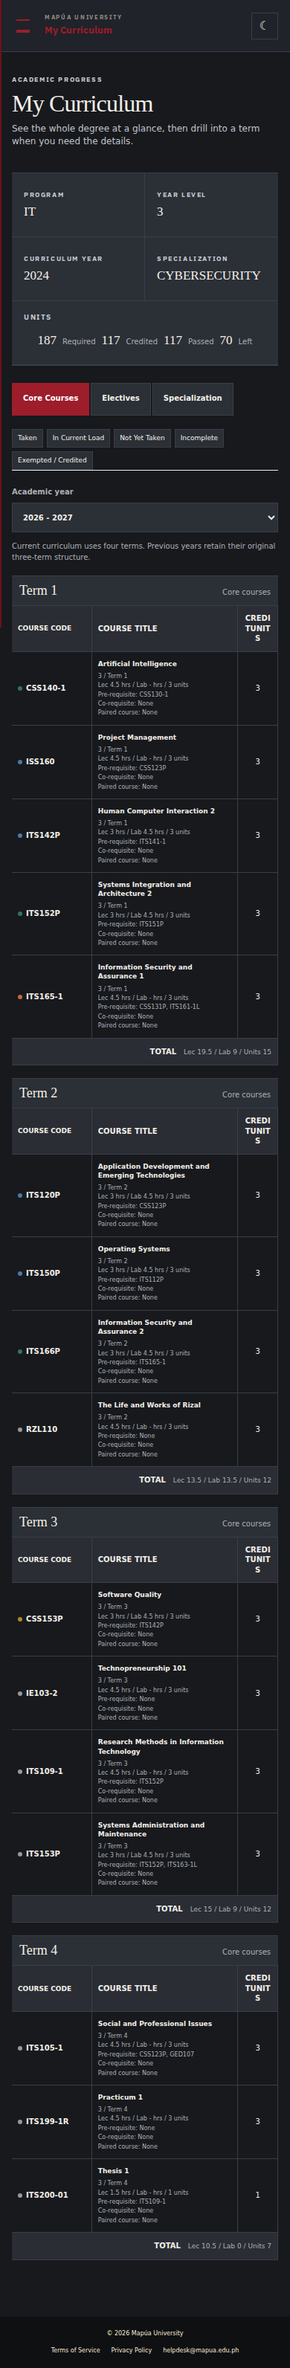
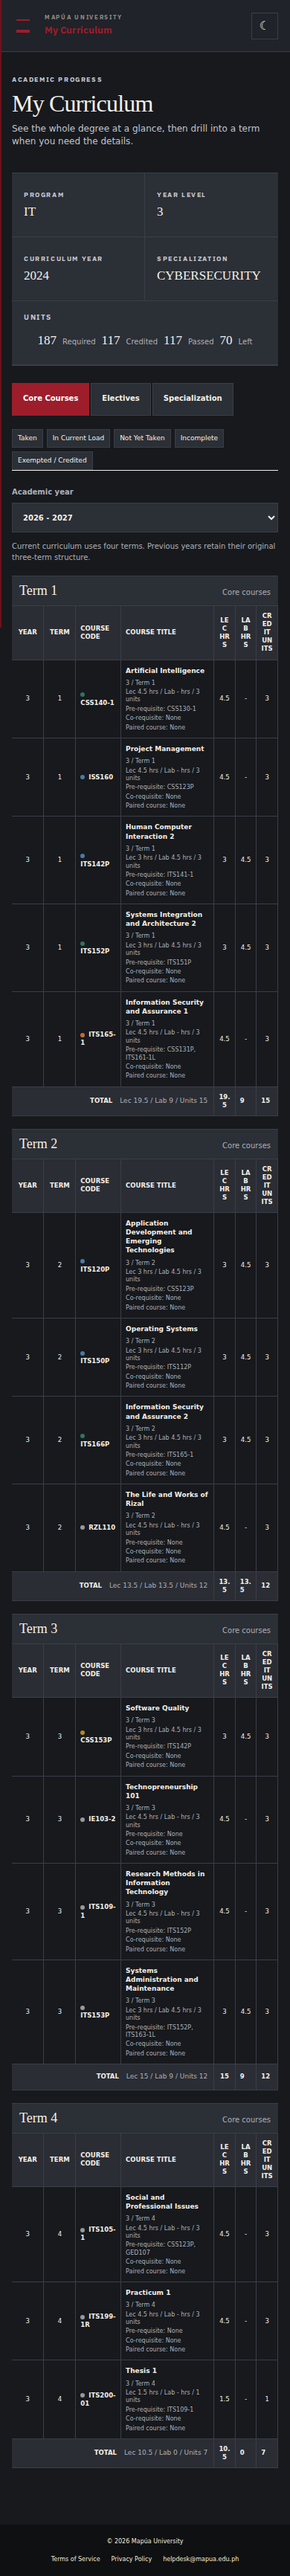
Finish responsive table layout fixes

diff --git a/mobile-fixes.css b/mobile-fixes.css
@@ -455,6 +455,46 @@ html[data-theme="dark"] .content .schedule-table thead th {
   background: color-mix(in srgb, var(--rule) 55%, transparent) !important;
 }
 
+@media (min-width: 801px) and (max-width: 1100px) {
+  .content .curriculum-table-wrap {
+    overflow-x: hidden !important;
+  }
+
+  .content .curriculum-table {
+    width: 100% !important;
+    min-width: 0 !important;
+    max-width: 100% !important;
+    table-layout: fixed !important;
+  }
+
+  .content .curriculum-table th,
+  .content .curriculum-table td {
+    padding: 8px 5px !important;
+    font-size: 9px !important;
+    overflow-wrap: anywhere !important;
+  }
+
+  .content .curriculum-table th:nth-child(n + 8),
+  .content .curriculum-table td:nth-child(n + 8) {
+    display: none !important;
+  }
+
+  .content .curriculum-table th:nth-child(1),
+  .content .curriculum-table td:nth-child(1) { width: 12% !important; }
+  .content .curriculum-table th:nth-child(2),
+  .content .curriculum-table td:nth-child(2) { width: 12% !important; }
+  .content .curriculum-table th:nth-child(3),
+  .content .curriculum-table td:nth-child(3) { width: 17% !important; }
+  .content .curriculum-table th:nth-child(4),
+  .content .curriculum-table td:nth-child(4) { width: 35% !important; }
+  .content .curriculum-table th:nth-child(5),
+  .content .curriculum-table td:nth-child(5),
+  .content .curriculum-table th:nth-child(6),
+  .content .curriculum-table td:nth-child(6),
+  .content .curriculum-table th:nth-child(7),
+  .content .curriculum-table td:nth-child(7) { width: 8% !important; }
+}
+
 html[data-theme="dark"] .content .table-card td,
 html[data-theme="dark"] .content .soa-table td,
 html[data-theme="dark"] .content .curriculum-table td,
@@ -962,12 +1002,13 @@ html[data-theme="dark"] .content.schedule-full-view .schedule-table .class-block
   }
 }
 
-  /* Curriculum tables use the useful mobile fields instead of forcing the full desktop grid sideways. */
+  /* Curriculum tables keep the desktop row hierarchy while fitting the phone card. */
   @media (max-width: 800px) {
     .content .curriculum-table-wrap {
       width: 100% !important;
       max-width: 100% !important;
       overflow-x: hidden !important;
+      overscroll-behavior-x: contain;
     }
 
     .content .curriculum-table {
@@ -979,50 +1020,37 @@ html[data-theme="dark"] .content.schedule-full-view .schedule-table .class-block
 
     .content .curriculum-table th,
     .content .curriculum-table td {
-      padding: 10px 8px !important;
-      font-size: 10px !important;
-      line-height: 1.35 !important;
+      padding: 8px 6px !important;
+      font-size: 8.5px !important;
+      line-height: 1.3 !important;
       vertical-align: middle;
       white-space: normal !important;
       overflow-wrap: anywhere !important;
     }
 
-    /* Keep course code, title, and credit units visible at useful widths. */
     .content .curriculum-table th:nth-child(1),
-    .content .curriculum-table td:nth-child(1),
+    .content .curriculum-table td:nth-child(1) { width: 12% !important; }
     .content .curriculum-table th:nth-child(2),
-    .content .curriculum-table td:nth-child(2),
+    .content .curriculum-table td:nth-child(2) { width: 12% !important; }
+    .content .curriculum-table th:nth-child(3),
+    .content .curriculum-table td:nth-child(3) { width: 17% !important; }
+    .content .curriculum-table th:nth-child(4),
+    .content .curriculum-table td:nth-child(4) { width: 35% !important; }
     .content .curriculum-table th:nth-child(5),
     .content .curriculum-table td:nth-child(5),
     .content .curriculum-table th:nth-child(6),
-    .content .curriculum-table td:nth-child(6),
-    .content .curriculum-table th:nth-child(n + 8),
-    .content .curriculum-table td:nth-child(n + 8) {
-      display: none !important;
-    }
-
-    .content .curriculum-table th:nth-child(3),
-    .content .curriculum-table td:nth-child(3) {
-      width: 30% !important;
-    }
-
-    .content .curriculum-table th:nth-child(4),
-    .content .curriculum-table td:nth-child(4) {
-      width: 55% !important;
-    }
-
+    .content .curriculum-table td:nth-child(6) { width: 8% !important; }
     .content .curriculum-table th:nth-child(7),
-    .content .curriculum-table td:nth-child(7) {
-      width: 15% !important;
-      text-align: center;
-    }
+    .content .curriculum-table td:nth-child(7) { width: 8% !important; text-align: center; }
+    .content .curriculum-table th:nth-child(8),
+    .content .curriculum-table td:nth-child(8),
+    .content .curriculum-table th:nth-child(9),
+    .content .curriculum-table td:nth-child(9),
+    .content .curriculum-table th:nth-child(10),
+    .content .curriculum-table td:nth-child(10) { display: none !important; }
 
     .content .curriculum-table th:nth-child(7) br {
       display: none;
-    }
-
-    .content .curriculum-table th:nth-child(3) {
-      font-size: 9px !important;
     }
 
     .content .curriculum-table td:nth-child(3) {
@@ -1032,14 +1060,14 @@ html[data-theme="dark"] .content.schedule-full-view .schedule-table .class-block
 
     .content .curriculum-table .total-row td:first-child {
       display: table-cell !important;
-      width: 100% !important;
+      width: auto !important;
       box-sizing: border-box;
       padding: 11px 8px !important;
       text-align: right;
     }
 
     .content .curriculum-table .total-row td:nth-child(n + 2) {
-      display: none !important;
+      display: table-cell !important;
     }
 
     .content .curriculum-table .total-label {
@@ -1097,7 +1125,13 @@ html[data-theme="dark"] .content.schedule-full-view .schedule-table .class-block
     .content .soa-table table th:nth-child(5),
     .content .soa-table table td:nth-child(5) { width: 23% !important; white-space: nowrap !important; }
     .content .soa-table table th:nth-child(6),
-    .content .soa-table table td:nth-child(6) { width: 7% !important; text-align: center; }
+    .content .soa-table table td:nth-child(6) {
+      width: 42px !important;
+      min-width: 42px !important;
+      max-width: 42px !important;
+      padding-inline: 2px !important;
+      text-align: center;
+    }
 
     .content .soa-table table input[type="checkbox"] {
       display: block !important;
@@ -1106,6 +1140,7 @@ html[data-theme="dark"] .content.schedule-full-view .schedule-table .class-block
       margin: 0 auto !important;
       accent-color: var(--red) !important;
       cursor: pointer;
+      transform: translateY(-1px);
     }
 
     html[data-theme="dark"] .content .soa-table table input[type="checkbox"] {
